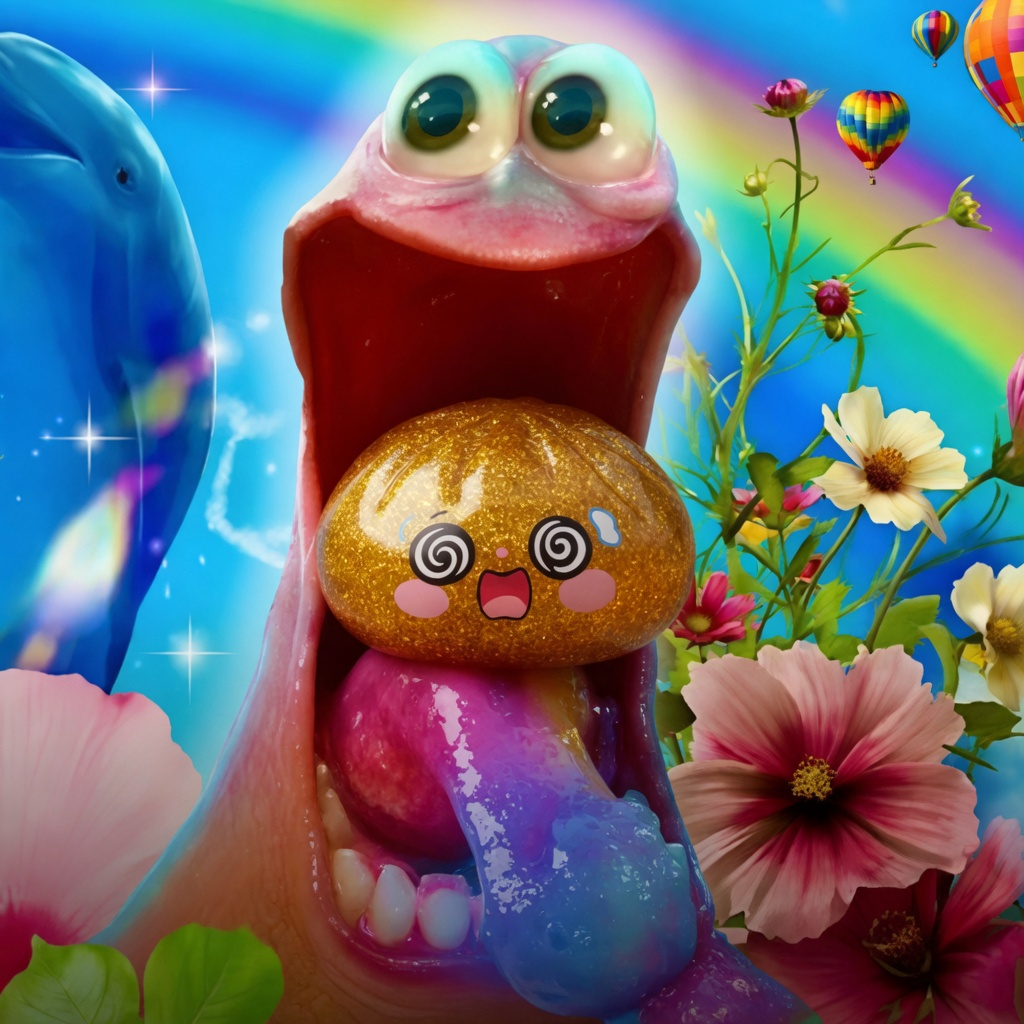
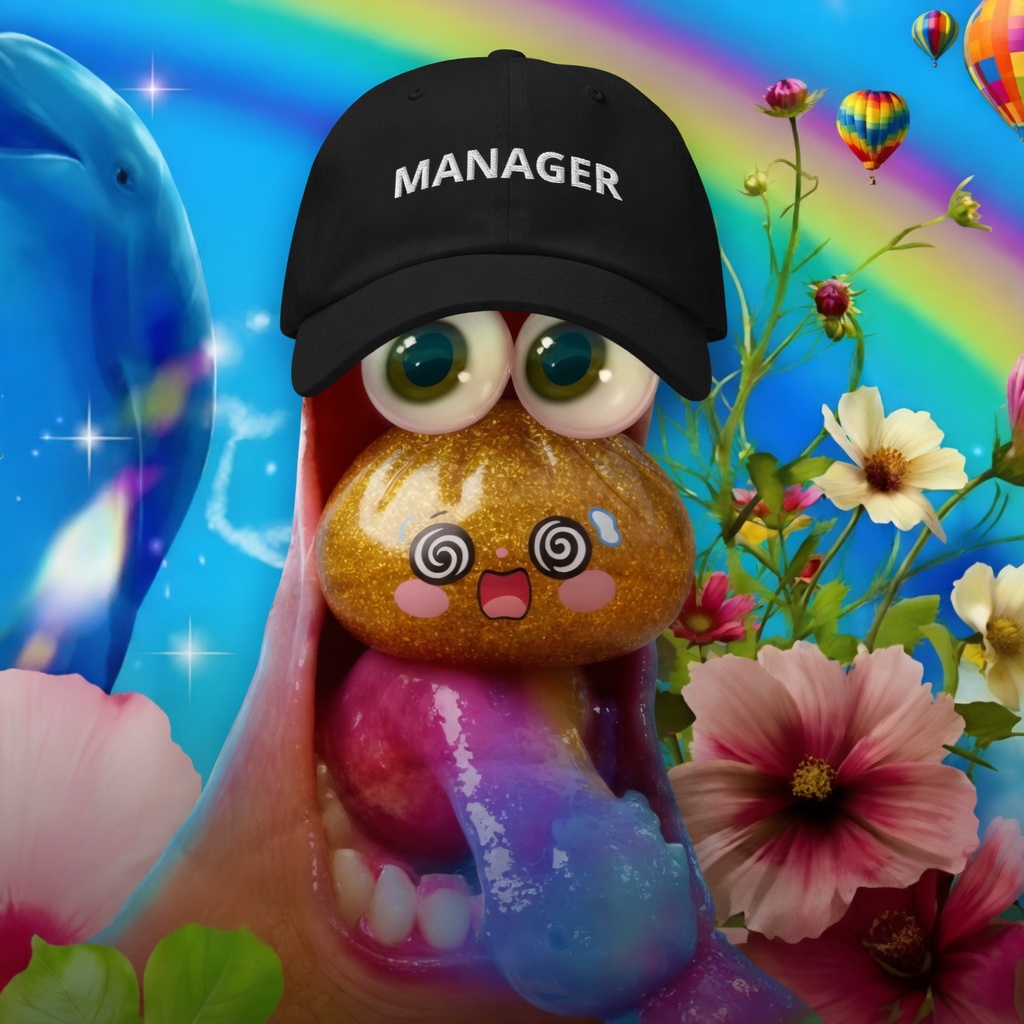
Put a MANAGER cap on the Admin welcome picture.

diff --git a/katie/about.html b/katie/about.html
@@ -150,6 +150,13 @@
             <span>fidget squish uses a round font and stacked pinks: light pink on top, middle pink in the middle, dark pink underneath — same idea as the heart beside it.</span>
           </div>
         </li>
+        <li>
+          <span class="n">14</span>
+          <div>
+            <strong>Manager cap on the Admin picture.</strong>
+            <span>The Admin welcome picture still has the character eating the dumpling, now wearing a black MANAGER cap.</span>
+          </div>
+        </li>
       </ol>
     </section>
 

diff --git a/katie/admin.html b/katie/admin.html
@@ -39,7 +39,7 @@
 
   <main class="wrap">
     <section class="admin-gate" data-lock>
-      <img class="admin-welcome" src="photos/admin-welcome.jpg?v=dumpling1" alt="">
+      <img class="admin-welcome" src="photos/admin-welcome.jpg?v=manager" alt="">
       <h1>Shop admin</h1>
       <p>Password to change names, prices, photos, stock, and add or remove items.</p>
       <form data-gate>
